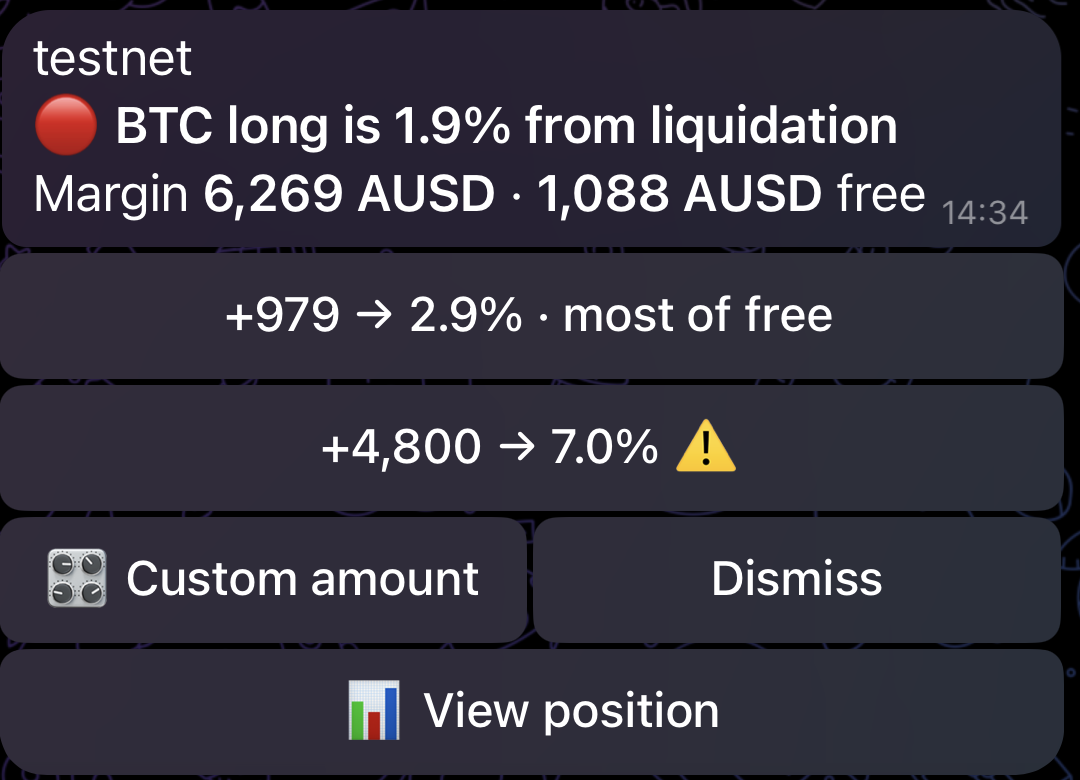
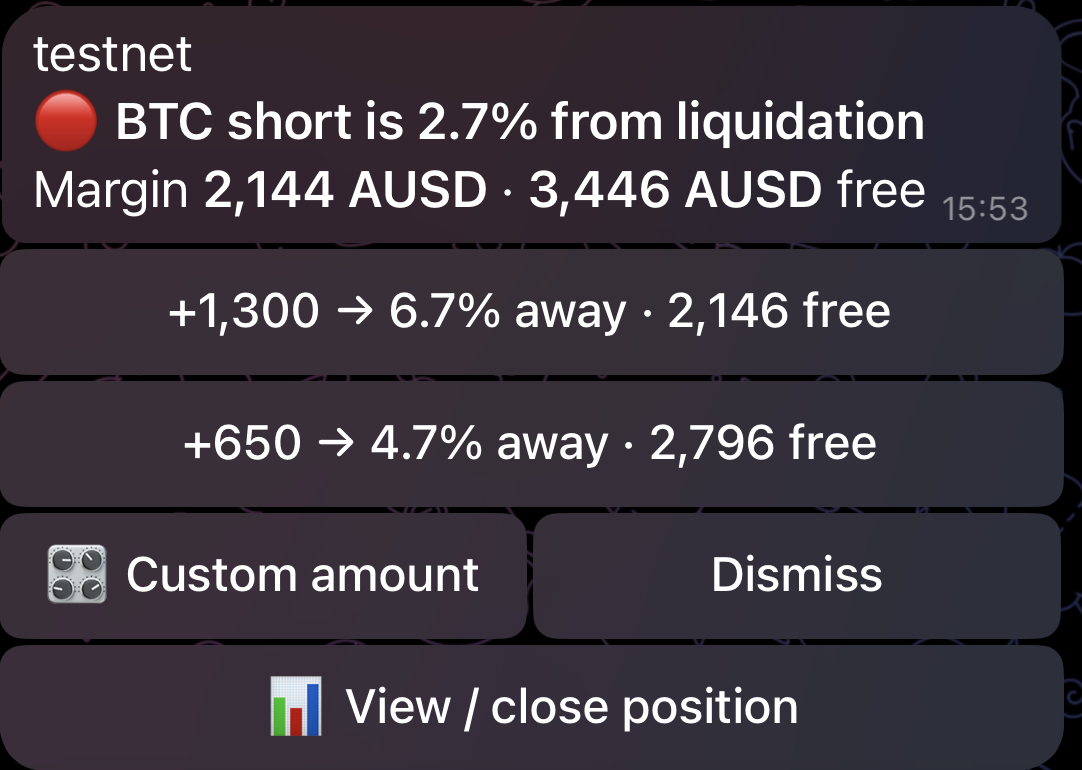
README: the alert screenshot is the current alert (top-ups that say what they buy and leave, View / close position), shown 380 px wide

diff --git a/README.md b/README.md
@@ -15,7 +15,7 @@ PerpGuard watches each position and warns before liquidation. It adds margin onl
 
 For anyone trading on Perpl, and for anyone who wants to watch an account on Perpl without trading at all.
 
-![A PerpGuard alert in Telegram with two suggested top-ups](docs/images/telegram-alert.png)
+<img src="docs/images/telegram-alert.png" width="380" alt="A PerpGuard alert in Telegram"><br>
 *The alert: the position, its margin and free balance, and two top-ups, each showing the distance it buys.*
 
 ## What it does
